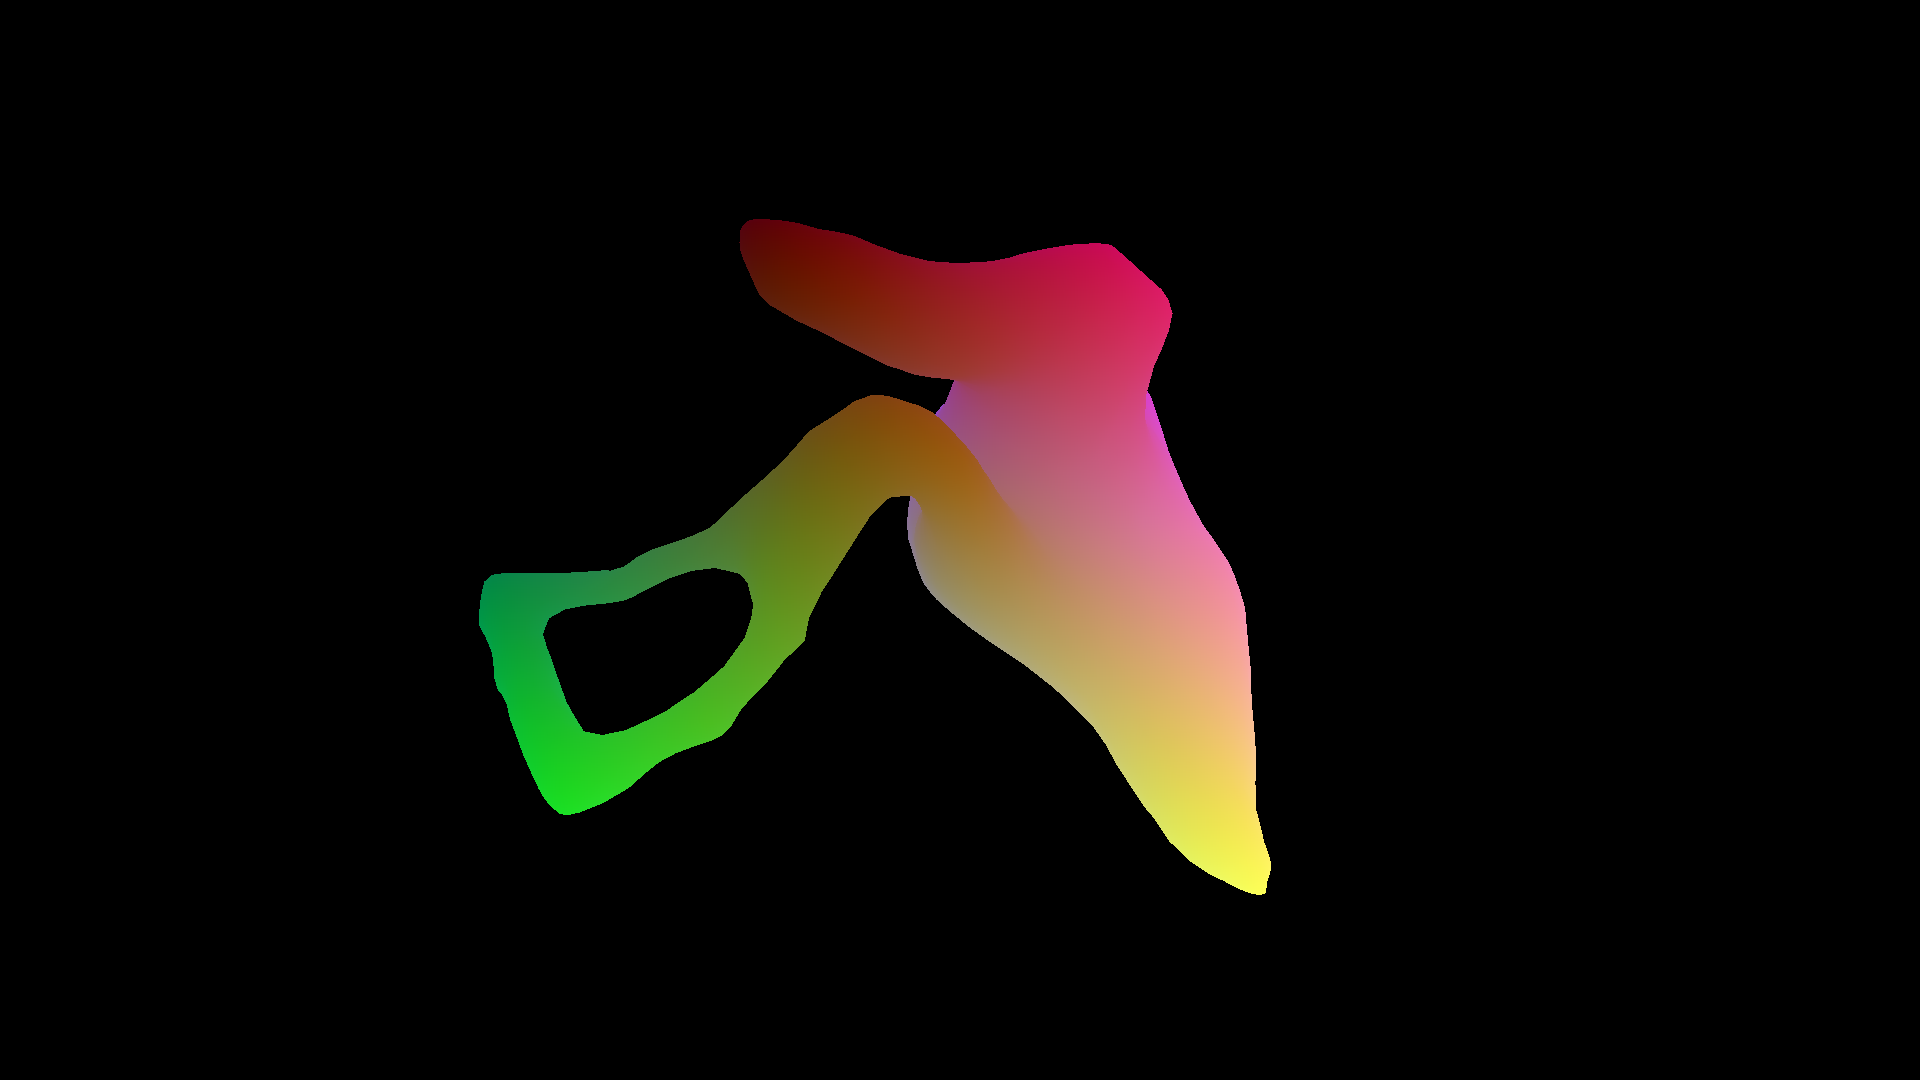
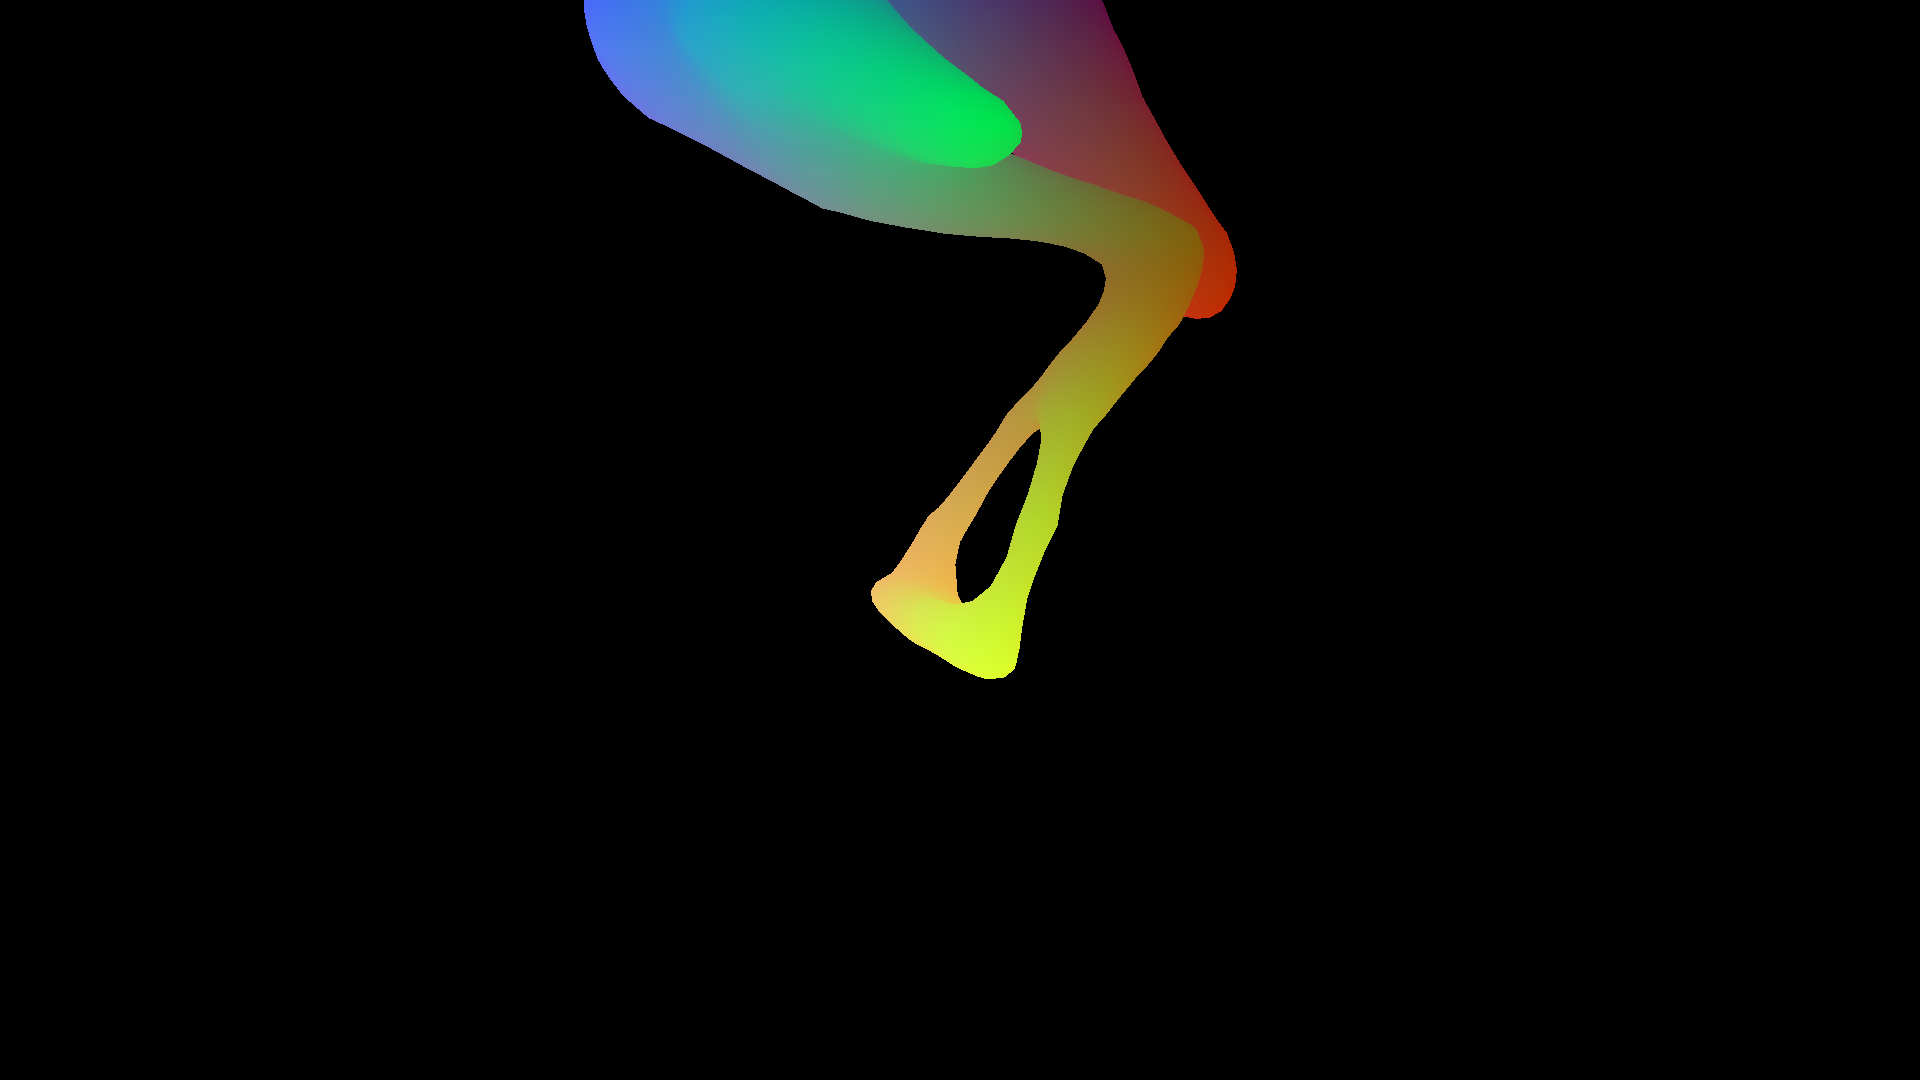
mirrored the lef ossicles to right, and passed the test_pnp_from_dataset test

Changed region(s): [[0.25, 0.0, 0.6875, 0.825]]

diff --git a/vision6D/app.py b/vision6D/app.py
@@ -164,49 +164,17 @@ class App:
             self.set_vertices(mesh_name, mesh_data.points)
 
             # Color the vertex: set the color to be the meshes' initial location, and never change the color
-            colors = vis.utils.color_mesh(mesh_data.points.T)
+            colors = vis.utils.color_mesh(mesh_data.points.T) if not self.mirror_objects else vis.utils.color_mesh(np.array([[-1, 0, 0], [0, 1, 0], [0, 0, 1]]) @ mesh_data.points.T)
             mesh_data.point_data.set_scalars(colors)
             mesh = self.pv_plotter.add_mesh(mesh_data, rgb=True, opacity=self.surface_opacity, name=mesh_name) #, show_edges=True)
             
             # Set the transformation matrix to be the mesh's user_matrix
-            mesh.user_matrix = self.transformation_matrix
+            mesh.user_matrix = self.transformation_matrix if not self.mirror_objects else np.array([[-1, 0, 0, 0], [0, 1, 0, 0], [0, 0, 1, 0], [0, 0, 0, 1]]) @ self.transformation_matrix
             self.initial_poses[mesh_name] = self.transformation_matrix
-
-            # plot meshes
-            # mesh.plot()
             
             # Add and save the actor
             actor, _ = self.pv_plotter.add_actor(mesh, pickable=True, name=mesh_name)
             self.mesh_actors[mesh_name] = actor
-            
-
-            if self.mirror_objects:
-                mesh_name = mesh_name + '_mirror'
-
-                # create a DEEP copy
-                mesh_data = mesh_data.copy(deep=True)
-                # mesh_data.points = (np.array([[-1, 0, 0], [0, 1, 0], [0, 0, 1]]) @ mesh_data.points.T).T
-
-                # mirror the object based on the origin (0, 0, 0)
-                # mesh_data = mesh_data.reflect((1, 0, 0), point=(0, 0, 0)) 
-                
-                # Save the mesh data to dictionary
-                self.mesh_polydata[mesh_name] = mesh_data
-                # set vertices attribute
-                self.set_vertices(mesh_name, mesh_data.points)
-                # Color the vertex: set the color to be the meshes' initial location, and never change the color
-                # colors = vis.utils.color_mesh(mesh_data.points.T)
-                colors = vis.utils.color_mesh(np.array([[-1, 0, 0], [0, 1, 0], [0, 0, 1]]) @ mesh_data.points.T)
-                mesh_data.point_data.set_scalars(colors)
-                mesh = self.pv_plotter.add_mesh(mesh_data, rgb=True, opacity=self.surface_opacity, name=mesh_name)
-                # Set the transformation matrix to be the mesh's user_matrix
-                self.transformation_matrix = np.array([[-1, 0, 0, 0], [0, 1, 0, 0], [0, 0, 1, 0], [0, 0, 0, 1]]) @ self.transformation_matrix
-                mesh.user_matrix = self.transformation_matrix
-                self.initial_poses[mesh_name] = self.transformation_matrix
-
-                # Add and save the actor
-                actor, _ = self.pv_plotter.add_actor(mesh, pickable=True, name=mesh_name)
-                self.mesh_actors[mesh_name] = actor
 
         if len(self.mesh_actors) == 1: self.set_reference(reference_name)
 
@@ -358,7 +326,7 @@ class App:
             # Render the targeting objects
             for object in render_objects:
                 mesh = self.pv_render.add_mesh(self.mesh_polydata[object], rgb=True, opacity=surface_opacity)
-                mesh.user_matrix = self.transformation_matrix
+                mesh.user_matrix = self.transformation_matrix if not self.mirror_objects else np.array([[-1, 0, 0, 0], [0, 1, 0, 0], [0, 0, 1, 0], [0, 0, 0, 1]]) @ self.transformation_matrix
         
         self.pv_render.camera = self.camera.copy()
         self.pv_render.disable()

diff --git a/test/test_create_dataset.py b/test/test_create_dataset.py
@@ -149,21 +149,17 @@ def test_generate_image(app):
     ("6742", None, vis.config.OSSICLES_MESH_PATH_6742_left, vis.config.gt_pose_6742_left, 1/10, False), # no resize: 0.04155607588744 # resize 1/5 cv2: 0.13983189316096442 # if resize torch: 
     ("6742", vis.config.mask_6742_hand_draw_numpy, vis.config.OSSICLES_MESH_PATH_6742_left, vis.config.gt_pose_6742_left, 1/10, False), # error: 2.2111475894404378 # if resize cv2: 146.63621797086526 # if resize torch: 
     
-    # ("6742", mask_6742_hand_draw_numpy, OSSICLES_MESH_PATH_6742_left, gt_pose_6742_left, 1/5, True), # no resize: 5.214560773437986 # resize 1/5 cv2: 230.26984657453482 # if resize torch: 
+    ("6742", None, vis.config.OSSICLES_MESH_PATH_6742_left, vis.config.gt_pose_6742_left, 1/10, True), # no resize: 5.214560773437986 # resize 1/5 cv2: 230.26984657453482 # if resize torch: 
     ]
 )
 def test_pnp_from_dataset(name, hand_draw_mask, ossicles_path, RT, resize, mirror_objects):
 
-    ossicles_side = ossicles_path.stem.split("_")[1]
-    if mirror_objects:
-        if ossicles_side == "right": ossicles_side = "left"
-        elif ossicles_side == "left": ossicles_side = "right"
-
     # save the GT pose to .npy file
-    gt_pose_name = f"{name}_{ossicles_side}_gt_pose.npy"
-    np.save(vis.config.DATA_DIR / "gt_pose" / gt_pose_name, RT)
-    app = vis.App(register=True, scale=1, mirror_objects=mirror_objects)
+    # ossicles_side = ossicles_path.stem.split("_")[1]
+    # gt_pose_name = f"{name}_{ossicles_side}_gt_pose.npy"
+    # np.save(vis.config.DATA_DIR / "gt_pose" / gt_pose_name, RT)
 
+    app = vis.App(register=True, scale=1, mirror_objects=mirror_objects)
     w, h = app.window_size
 
     if hand_draw_mask is not None: 
@@ -237,6 +233,8 @@ def test_pnp_from_dataset(name, hand_draw_mask, ossicles_path, RT, resize, mirro
     logger.debug(f"The total points are {pts3d.shape[0]}")
 
     predicted_pose = vis.utils.solve_epnp_cv2(pts2d, pts3d, app.camera_intrinsics, app.camera.position)
+
+    if mirror_objects: predicted_pose = np.array([[-1, 0, 0, 0], [0, 1, 0, 0], [0, 0, 1, 0], [0, 0, 0, 1]]) @ predicted_pose @ np.array([[-1, 0, 0, 0], [0, 1, 0, 0], [0, 0, 1, 0], [0, 0, 0, 1]])
             
     logger.debug(f"\ndifference from predicted pose and RT pose: {np.sum(np.abs(predicted_pose - RT))}")
             

diff --git a/trashcan.py b/trashcan.py
@@ -1293,3 +1293,31 @@ def test_flip_left_ossicles_color(app):
 #                                 [  0.88314596,   0.45772661,  -0.10266232, -23.0138221 ],
 #                                 [  0.44668916,  -0.75373804,   0.48202465, 137.22705977],
 #                                 [  0.,           0.,           0.,           1.        ]])
+
+# if self.mirror_objects:
+    #     mesh_name = mesh_name + '_mirror'
+
+    #     # create a DEEP copy
+    #     mesh_data = mesh_data.copy(deep=True)
+    #     # mesh_data.points = (np.array([[-1, 0, 0], [0, 1, 0], [0, 0, 1]]) @ mesh_data.points.T).T
+
+    #     # mirror the object based on the origin (0, 0, 0)
+    #     # mesh_data = mesh_data.reflect((1, 0, 0), point=(0, 0, 0)) 
+        
+    #     # Save the mesh data to dictionary
+    #     self.mesh_polydata[mesh_name] = mesh_data
+    #     # set vertices attribute
+    #     self.set_vertices(mesh_name, mesh_data.points)
+    #     # Color the vertex: set the color to be the meshes' initial location, and never change the color
+    #     # colors = vis.utils.color_mesh(mesh_data.points.T)
+    #     colors = vis.utils.color_mesh(np.array([[-1, 0, 0], [0, 1, 0], [0, 0, 1]]) @ mesh_data.points.T)
+    #     mesh_data.point_data.set_scalars(colors)
+    #     mesh = self.pv_plotter.add_mesh(mesh_data, rgb=True, opacity=self.surface_opacity, name=mesh_name)
+    #     # Set the transformation matrix to be the mesh's user_matrix
+    #     self.transformation_matrix = np.array([[-1, 0, 0, 0], [0, 1, 0, 0], [0, 0, 1, 0], [0, 0, 0, 1]]) @ self.transformation_matrix
+    #     mesh.user_matrix = self.transformation_matrix
+    #     self.initial_poses[mesh_name] = self.transformation_matrix
+
+    #     # Add and save the actor
+    #     actor, _ = self.pv_plotter.add_actor(mesh, pickable=True, name=mesh_name)
+    #     self.mesh_actors[mesh_name] = actor

diff --git a/vision6D/utils.py b/vision6D/utils.py
@@ -213,23 +213,14 @@ def solve_epnp_cv2(pts2d, pts3d, camera_intrinsics, camera_position):
     pts2d = pts2d.astype('float32')
     pts3d = pts3d.astype('float32')
     camera_intrinsics = camera_intrinsics.astype('float32')
-    
-    if pts2d.shape[0] < 4:
-        predicted_pose = np.eye(4)
-        # inliers = []
-    else:
-        dist_coeffs = np.zeros((4, 1))
-        
-        # Get a rotation matrix
-        predicted_pose = np.eye(4)
-        
-        # Use EPNP
-        success, rotation_vector, translation_vector, inliers = cv2.solvePnPRansac(pts3d, pts2d, camera_intrinsics, dist_coeffs, confidence=0.999, flags=cv2.SOLVEPNP_EPNP)
-            
+
+    predicted_pose = np.eye(4)
+    if pts2d.shape[0] > 4:
+        # Use EPNP, inliers are the indices of the inliers
+        success, rotation_vector, translation_vector, inliers = cv2.solvePnPRansac(pts3d, pts2d, camera_intrinsics, distCoeffs=np.zeros((4, 1)), confidence=0.999, flags=cv2.SOLVEPNP_EPNP)
         if success:
             predicted_pose[:3, :3] = cv2.Rodrigues(rotation_vector)[0]
             predicted_pose[:3, 3] = np.squeeze(translation_vector) + np.array(camera_position)
-            # logger.debug(len(inliers)) # 50703
 
     return predicted_pose
 
